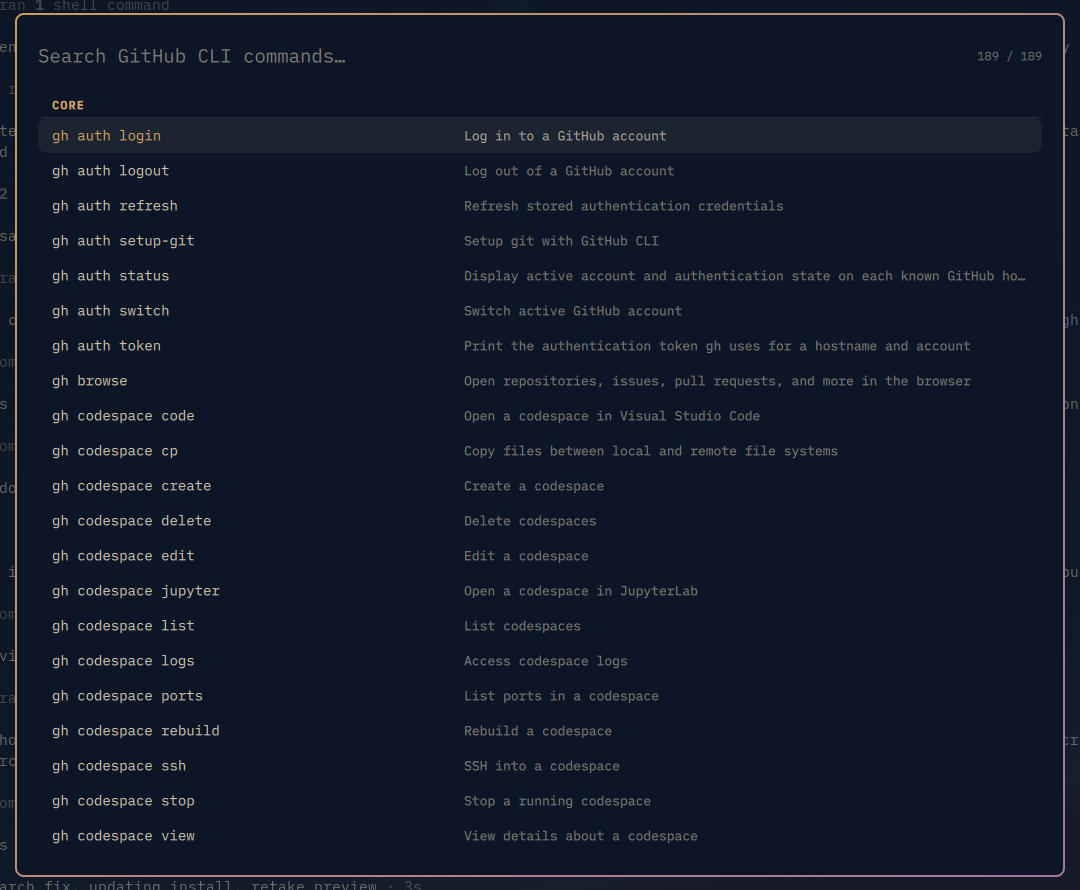
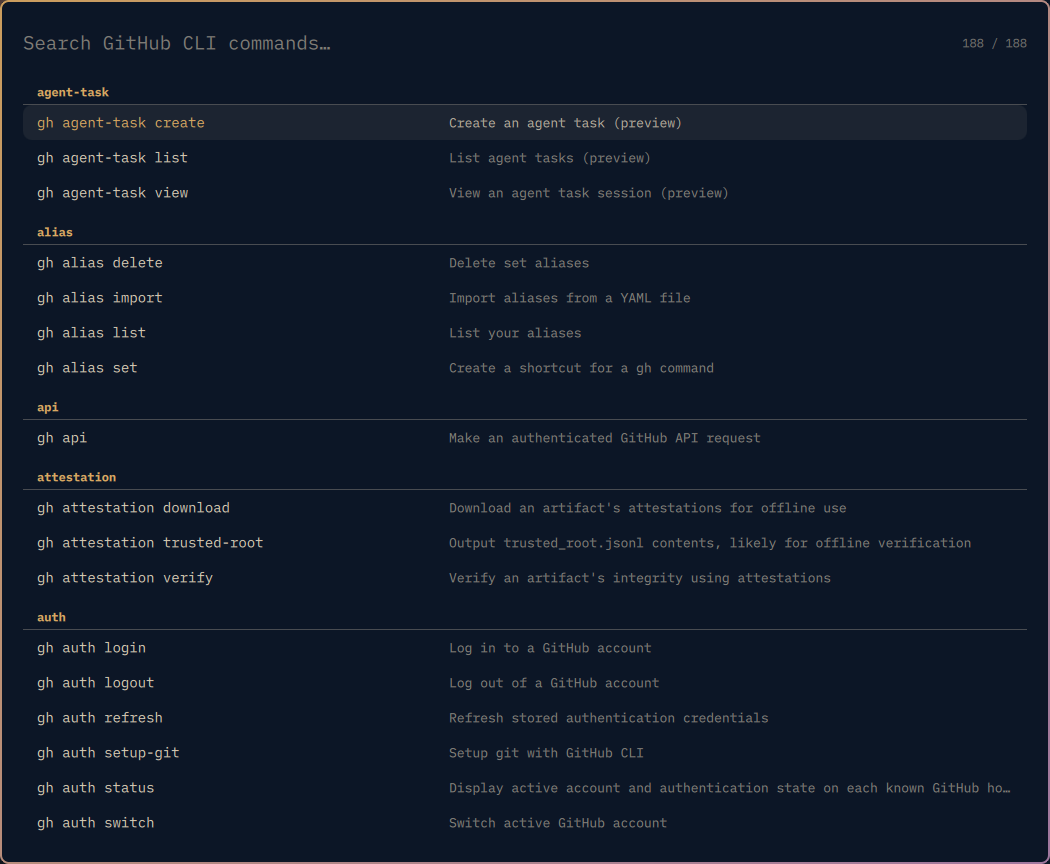
Update preview screenshot for manual-style grouping
Also note in the README that aliases and extensions are no longer listed.

Changed region(s): [[0.0, 0.0, 1.0, 1.0], [0.4267, 0.125, 0.9448, 0.5938]]

diff --git a/README.md b/README.md
@@ -8,7 +8,7 @@ It works like Omarchy's `SUPER + K` keybindings window and follows your Omarchy 
 
 ## How it works
 
-- The command list is generated from your installed `gh` (`gh --help` and `gh <command> --help`), so it always matches your version, including your own aliases and extensions.
+- The command list is generated from your installed `gh` (`gh --help` and `gh <command> --help`), so it always matches your version. Your own aliases and installed extensions are left out, since the manual does not list them.
 - The list is cached in `~/.cache/io.github.bkbatchelor.omarchy-github-cli-cheatsheet/` and rebuilt automatically when `gh` is upgraded.
 - The chosen command is inserted with a trailing space (for example `gh pr create `) by pasting it with Shift+Insert. Enter is never pressed.
 
